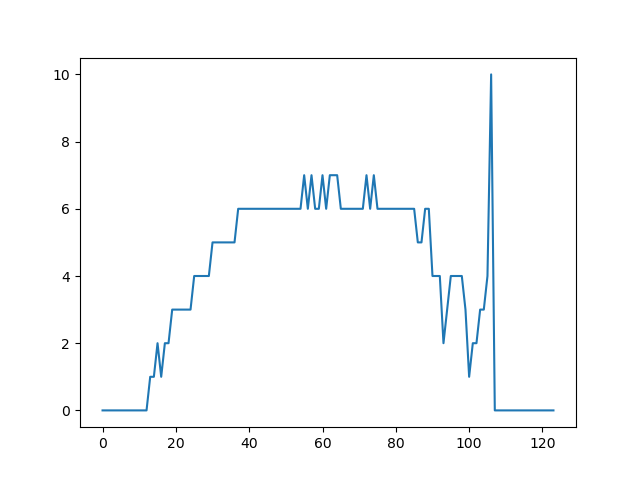
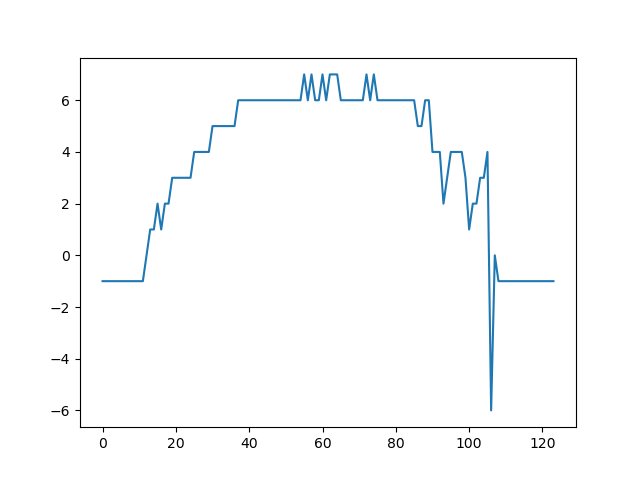
best image

diff --git a/cross-correlate-images.py b/cross-correlate-images.py
@@ -31,7 +31,8 @@ numberpixels = np.empty(image1_height)
 for i in range(0,image1_height):
     
     #correlations =  np.correlate(image1_array[i], image2_array[i], mode='full')
-    correlations =  np.correlate(image2_array[i], image1_array[i], mode='full')[image1_width:]
+    #correlations =  np.correlate(image2_array[i], image1_array[i], mode='full')[image1_width:]
+    correlations =  np.correlate(image2_array[i], image1_array[i], mode='full')
     
     
     #print (correlations.shape)
@@ -39,12 +40,12 @@ for i in range(0,image1_height):
     max = np.max(correlations)
     conditon = (correlations == max)
     #print  (np.where(conditon)[0])
-    numberpixels[i] = np.where(conditon)[0]
+    numberpixels[i] = np.where(conditon)[0] - image1_width
     #print( np.correlate(image1_array[i].flatten(), image2_array[i].flatten()))
 
 #print (correlations)
 xpoints = np.array(range(0, image1_height))
 plt.plot(xpoints, numberpixels)
-#plt.savefig("gragh_best.png")
+plt.savefig("gragh_best.png")
 plt.show()
 
